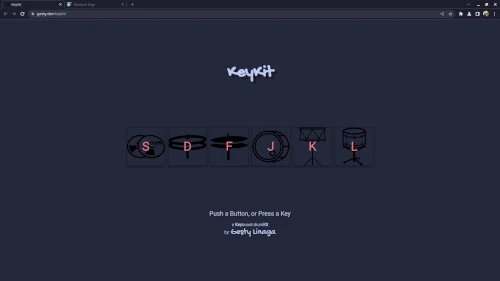
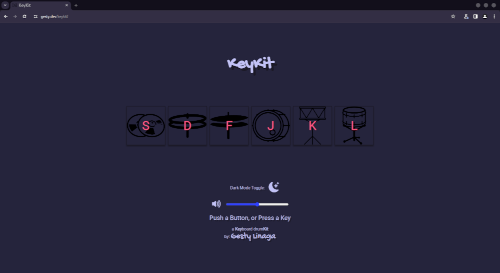
feat: add 'keykit' portfolio project with updated screenshot

diff --git a/index.html b/index.html
@@ -201,6 +201,19 @@
             </div>
 
             <div class="portfolio-item">
+              <a href="https://gesty.dev/keykit" target="_blank">
+                <img src="./imgs/portfolio/keykitScreenshot.webp" alt="Screenshot of KeyKit">
+              </a>
+              <div class="portfolio-desc">
+                <a href="https://gesty.dev/keykit" target="_blank">
+                  <h3>KeyKit</h3>
+                </a>
+                <p><strong>Key</strong>board drum<strong>Kit</strong><br>Turn 
+                your keyboard into a drumkit!<br>Written in TypeScript</p>
+              </div>
+            </div>
+
+            <div class="portfolio-item">
               <a href="https://gesty.dev/samplesite-landing" target="_blank">
                 <img src="./imgs/portfolio/samplesite-landingScreenshot.webp" alt="Screenshot of SampleSite-Landing">
               </a>
